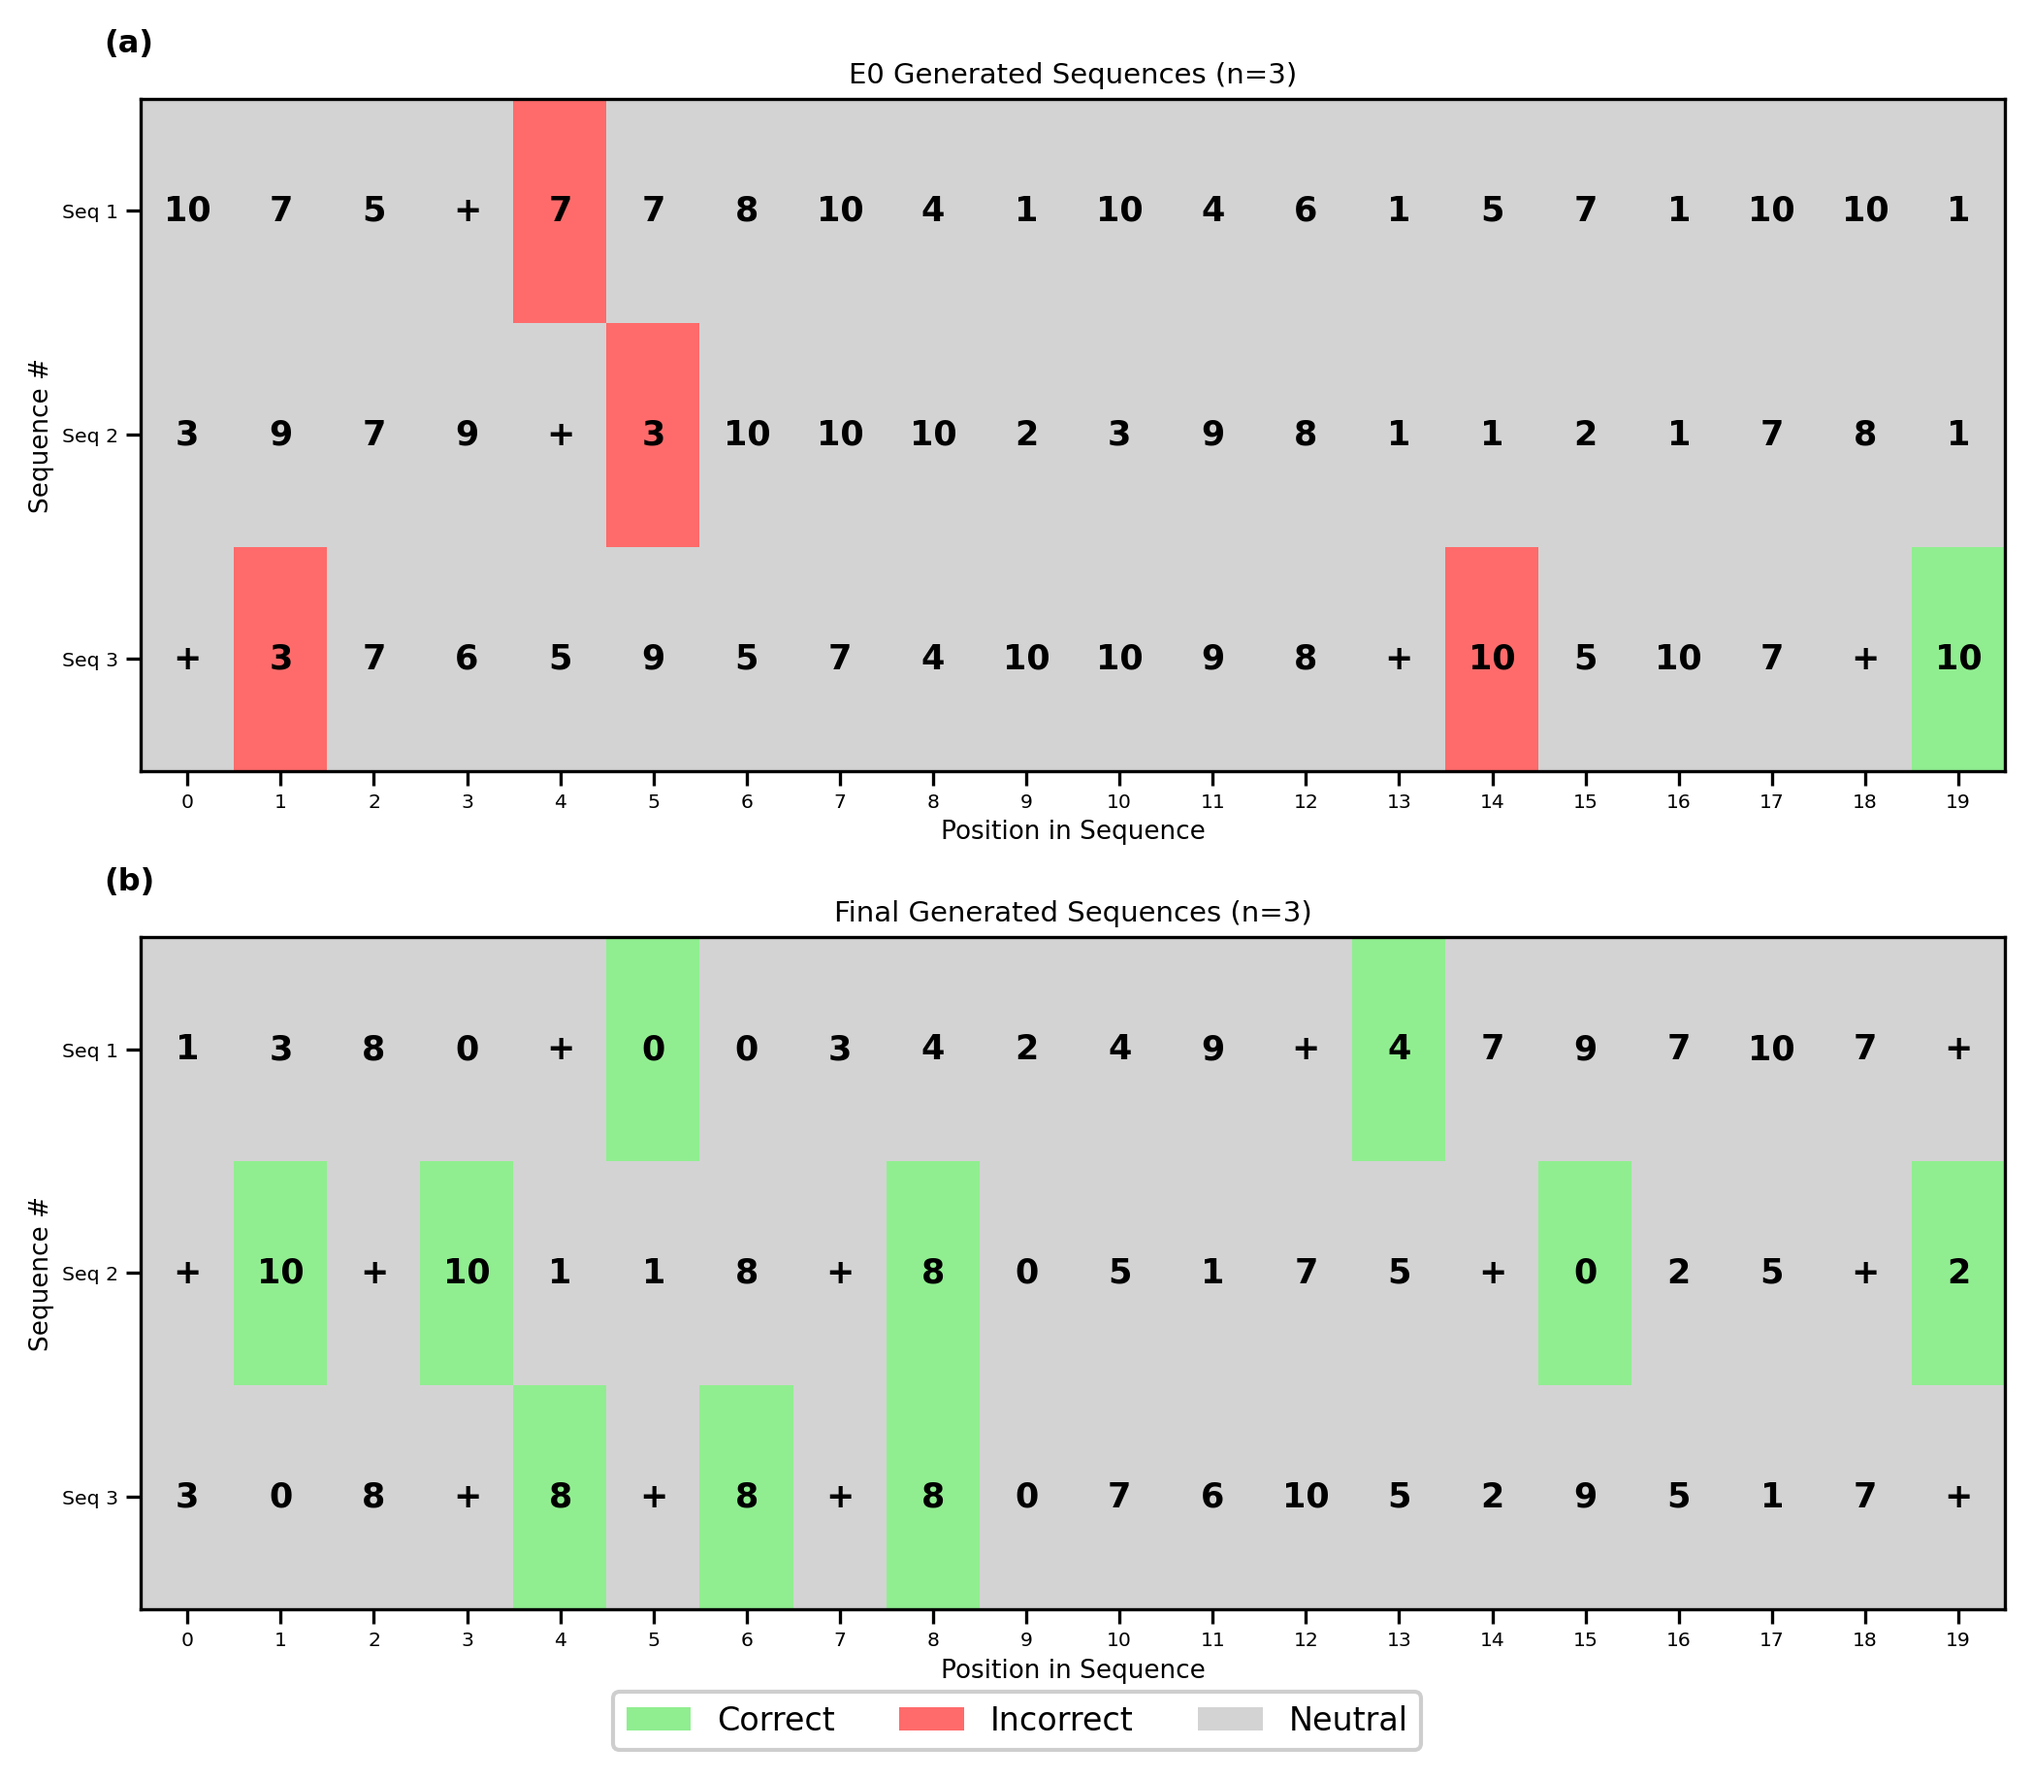
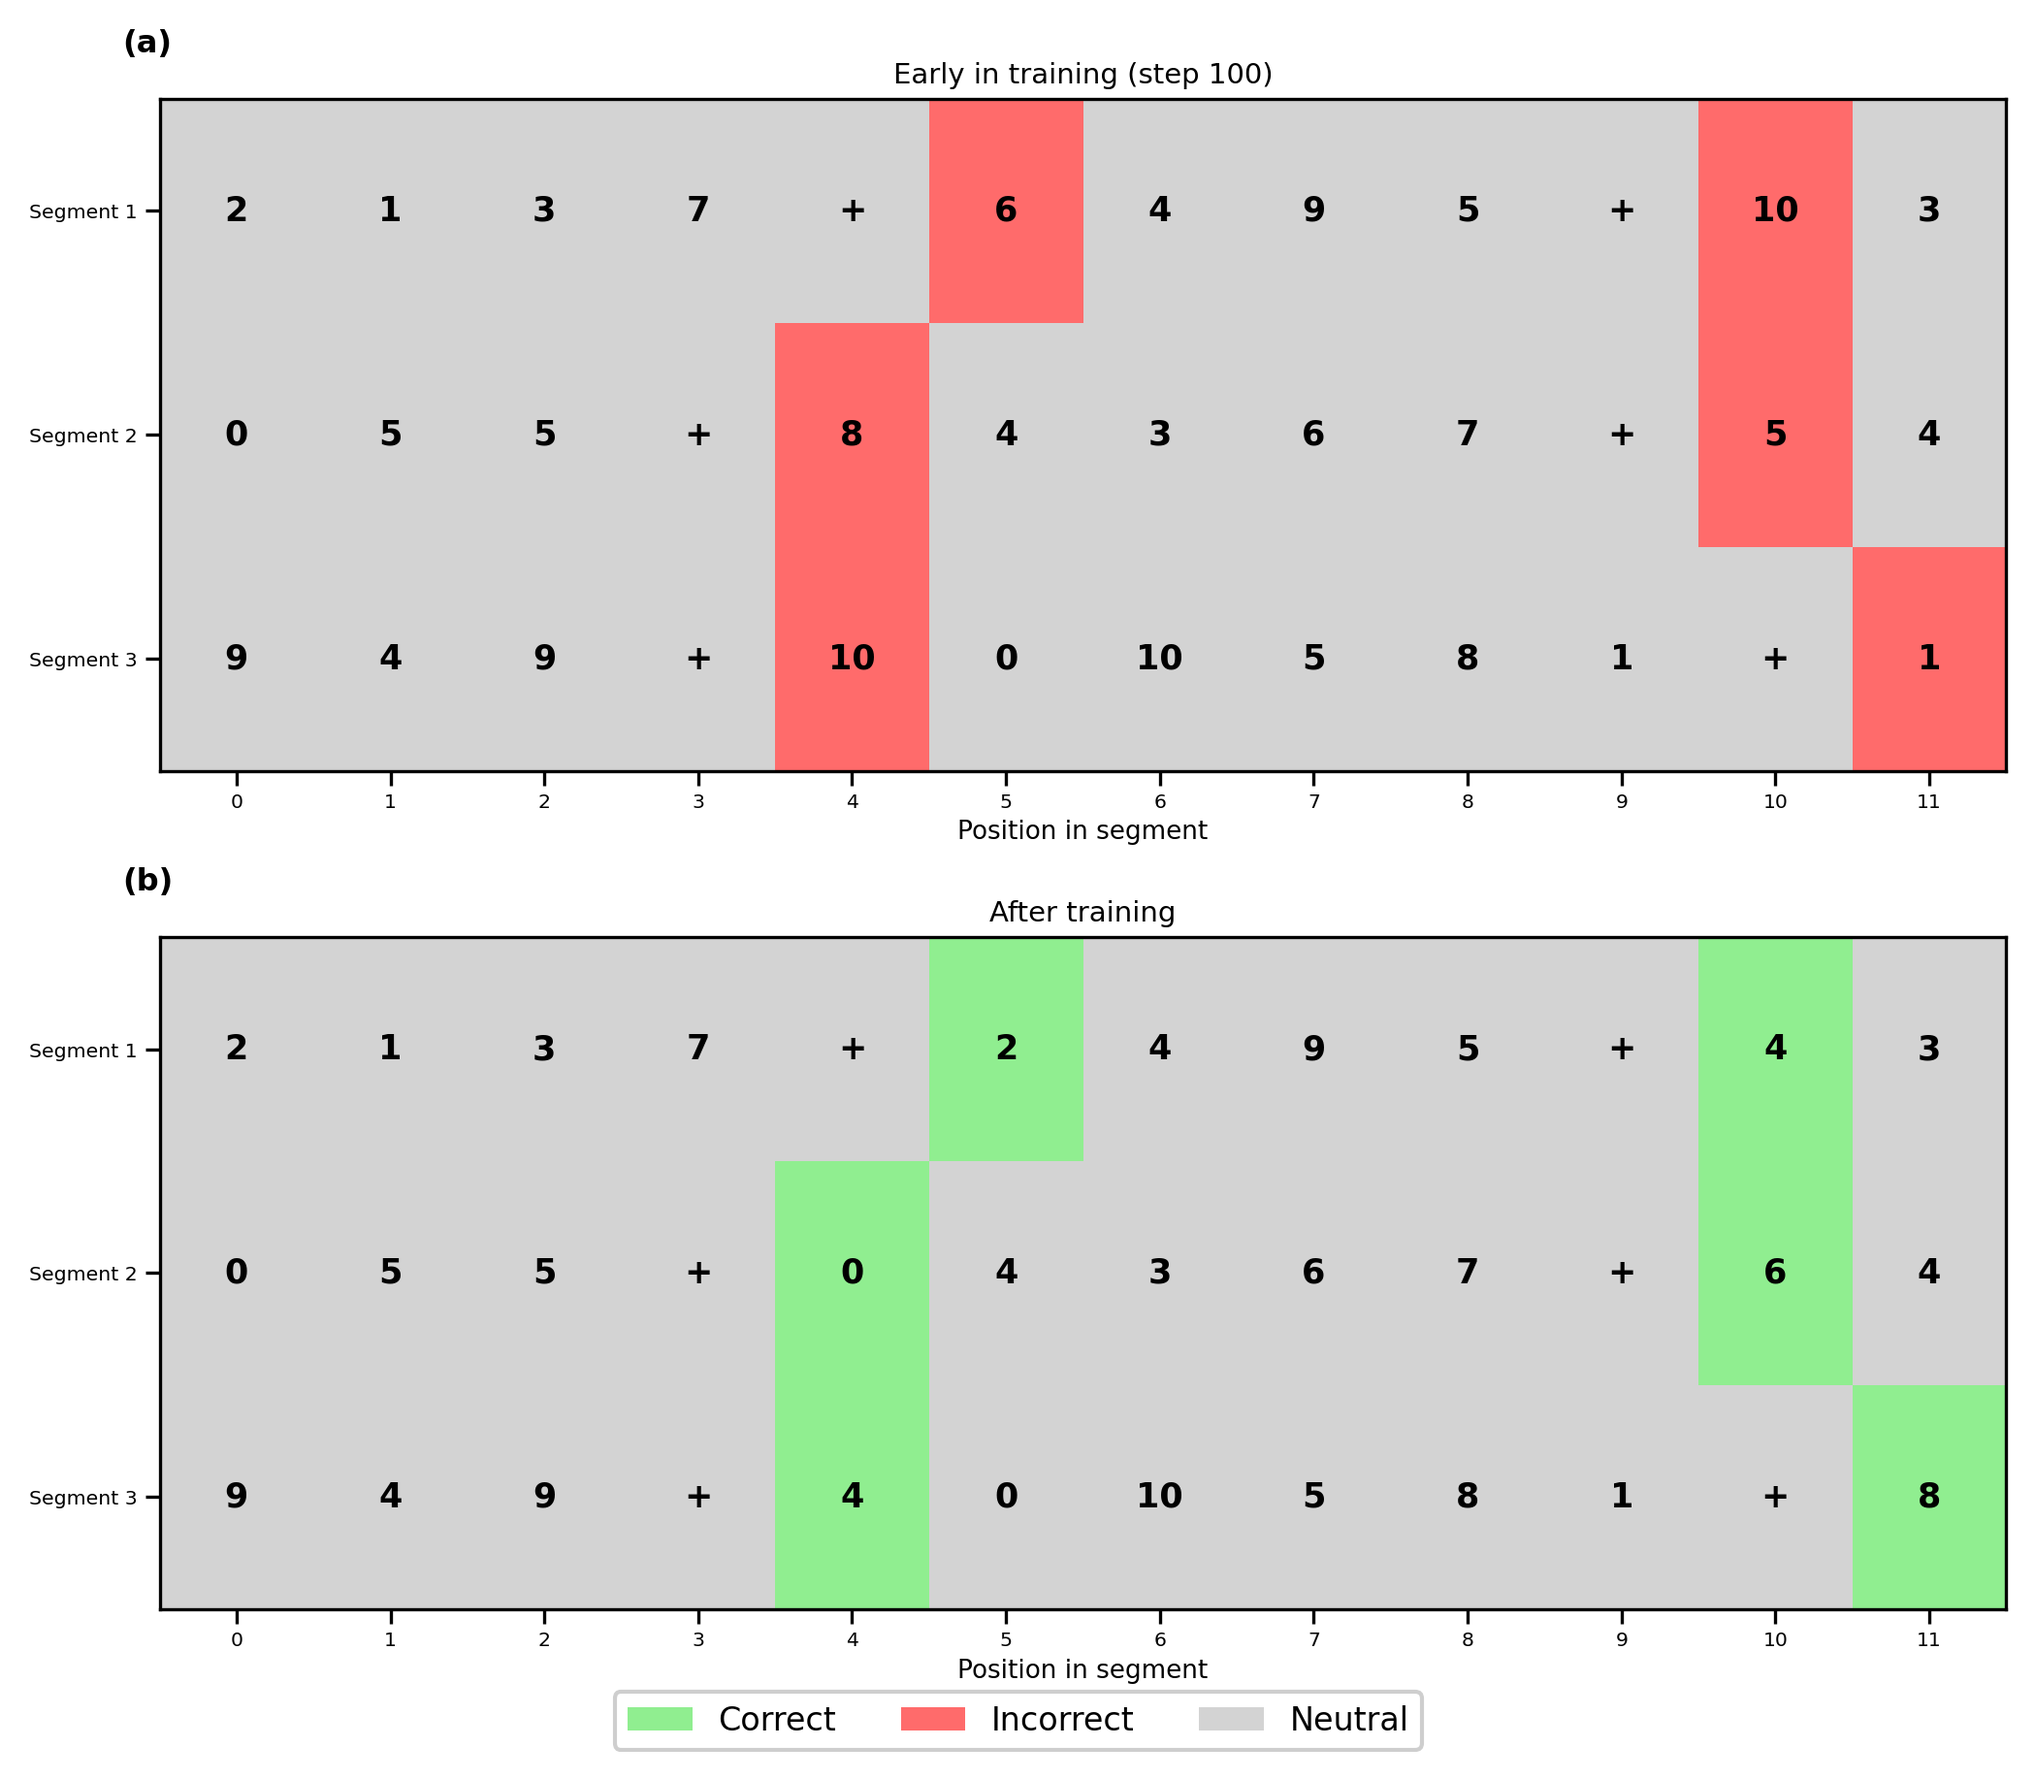
fine

diff --git a/plotting/04_generated_sequences_heatmap.py b/plotting/04_generated_sequences_heatmap.py
@@ -27,13 +27,102 @@ from plotting._utils import (
 )
 
 
-def plot_generated_sequences_heatmap(generated_sequences, generator, save_path=None, num_sequences=5, max_length=20, ax=None, title=None, show_legend=True):
+def _last_even_source(window, plus_idx, context):
+    """Index of the most recent even integer before window[plus_idx], within `context` tokens, or None."""
+    for j in range(plus_idx - 1, max(-1, plus_idx - context), -1):
+        tok = window[j]
+        if tok != "+" and isinstance(tok, int) and tok % 2 == 0:
+            return j
+    return None
+
+
+def select_plus_last_even_segments(sequences, num_segments=3, length=12, context=8,
+                                   min_plus=1, min_gap=1, fresh_sources=False,
+                                   return_locations=False):
+    """Cut readable demo segments out of generated plus-last-even sequences.
+
+    A segment of `length` tokens qualifies if every '+' in it (a) is followed by a
+    token inside the segment, (b) is not followed by another '+', and (c) has an
+    even number earlier in the segment and within the model's `context` window, so
+    the rule's target is visible in the figure. Segments must contain at least
+    `min_plus` '+' tokens, and the last even must sit at least `min_gap` positions
+    before its '+' (min_gap=2 excludes trivial '8 + 8' copies).
+
+    Selection uses only the input tokens, never whether the model's output was
+    correct. Segments prefer more distinct targets, more '+' tokens, and longer
+    look-back distances; at most one segment is taken per source sequence.
+    If fresh_sources, a '+' target may not itself be the output of an earlier '+'
+    (so replacing outputs with model predictions cannot change later targets).
+    Returns a list of segments (lists of tokens), possibly shorter than num_segments;
+    with return_locations, a list of (sequence_index, start, segment) instead.
+    """
+    best_per_seq = []
+    for seq_i, seq in enumerate(sequences):
+        best = None
+        for start in range(0, len(seq) - length + 1):
+            win = list(seq[start:start + length])
+            plus_idx = [i for i, t in enumerate(win) if t == "+"]
+            if len(plus_idx) < min_plus:
+                continue
+            ok = True
+            gaps, targets = [], set()
+            for i in plus_idx:
+                if i + 1 >= length or win[i + 1] == "+":
+                    ok = False
+                    break
+                src = _last_even_source(win, i, context)
+                if src is None or i - src < min_gap:
+                    ok = False
+                    break
+                if fresh_sources and src > 0 and win[src - 1] == "+":
+                    ok = False
+                    break
+                gaps.append(i - src)
+                targets.add(win[src])
+            if not ok:
+                continue
+            score = (len(targets), min(len(plus_idx), 3), min(gaps), -start)
+            if best is None or score > best[0]:
+                best = (score, (seq_i, start, win))
+        if best is not None:
+            best_per_seq.append(best)
+    best_per_seq.sort(key=lambda b: b[0], reverse=True)
+    chosen = [loc for _, loc in best_per_seq[:num_segments]]
+    return chosen if return_locations else [win for _, _, win in chosen]
+
+
+@torch.no_grad()
+def plus_predictions_on_segments(model, encoded_sequences, locations, decode, block_size, seed=0):
+    """Teacher-forced: replace the token after each '+' in each segment with a token
+    sampled from the model's output distribution (as in generation), using the true
+    preceding tokens (last `block_size`) as context. Uses a private RNG seeded by `seed`."""
+    model.eval()
+    gen = torch.Generator().manual_seed(seed)
+    out = []
+    for seq_i, start, win in locations:
+        full = encoded_sequences[seq_i]
+        shown = list(win)
+        for i, tok in enumerate(win):
+            if tok != "+" or i + 1 >= len(win):
+                continue
+            g = start + i  # index of '+' in the full sequence
+            ctx = torch.tensor([full[max(0, g - block_size + 1):g + 1]], dtype=torch.long)
+            logits, _ = model(ctx)
+            probs = F.softmax(logits[0, -1], dim=-1)
+            pred = int(torch.multinomial(probs, 1, generator=gen).item())
+            shown[i + 1] = decode([pred])[0]
+        out.append(shown)
+    return out
+
+
+def plot_generated_sequences_heatmap(generated_sequences, generator, save_path=None, num_sequences=5, max_length=20, ax=None, title=None, show_legend=True, xlabel="Position in Sequence", row_label="Seq"):
     """
     Plot generated sequences as an annotated heatmap showing correctness.
     Red = incorrect, White/Green = correct.
     """
     sequences_to_show = generated_sequences[:num_sequences]
-    
+    num_sequences = len(sequences_to_show)
+
     # Truncate to max_length and pad to same length
     max_len = min(max_length, max(len(seq) for seq in sequences_to_show))
     
@@ -43,7 +132,7 @@ def plot_generated_sequences_heatmap(generated_sequences, generator, save_path=N
     constrained_matrix = []
     
     for seq in sequences_to_show:
-        seq_truncated = seq[:max_len]
+        seq_truncated = list(seq[:max_len])
         correctness, _ = generator.verify_sequence(seq_truncated)
         valence = generator.valence_mask(seq_truncated)
         
@@ -99,15 +188,15 @@ def plot_generated_sequences_heatmap(generated_sequences, generator, save_path=N
                 ax.text(j, i, str(val), ha='center', va='center', fontsize=_txt_fs, color=text_color, fontweight='bold')
     
     # Set labels — larger fonts
-    ax.set_xlabel("Position in Sequence", fontsize=_lbl_fs)
-    ax.set_ylabel("Sequence #", fontsize=_lbl_fs)
+    ax.set_xlabel(xlabel, fontsize=_lbl_fs)
+    ax.set_ylabel("Sequence #" if row_label == "Seq" else "", fontsize=_lbl_fs)
     ax.set_title(title or "Generated Sequences with Rule Correctness\n(Green = Correct, Red = Incorrect)", fontsize=_tit_fs)
     ax.tick_params(axis='both', labelsize=_tk_fs)
     
     # Set ticks
     ax.set_xticks(range(0, max_len, max(1, max_len // 15)))
     ax.set_yticks(range(num_sequences))
-    ax.set_yticklabels([f"Seq {i+1}" for i in range(num_sequences)])
+    ax.set_yticklabels([f"{row_label} {i+1}" for i in range(num_sequences)])
     
     if created_fig:
         plt.tight_layout()
@@ -137,8 +226,11 @@ def plot_generated_sequences_heatmap(generated_sequences, generator, save_path=N
     return accuracy, total_correct, total_incorrect
 
 
-def plot_generated_sequences_heatmap_before_after(generated_sequences_e0, generated_sequences_final, generator, save_path=None, num_sequences=3, max_length=20):
+def plot_generated_sequences_heatmap_before_after(generated_sequences_e0, generated_sequences_final, generator, save_path=None, num_sequences=3, max_length=20, titles=None, xlabel="Position in Sequence", row_label="Seq"):
     """Plot before/after generated sequences heatmaps in one image."""
+    if titles is None:
+        titles = (f"E0 Generated Sequences (n={num_sequences})",
+                  f"Final Generated Sequences (n={num_sequences})")
     if not generated_sequences_e0:
         return plot_generated_sequences_heatmap(
             generated_sequences_final, generator,
@@ -157,12 +249,12 @@ def plot_generated_sequences_heatmap_before_after(generated_sequences_e0, genera
     acc0, c0, i0 = plot_generated_sequences_heatmap(
         generated_sequences_e0, generator,
         save_path=None, num_sequences=num_sequences, max_length=max_length,
-        ax=axes[0], title=f"E0 Generated Sequences (n={num_sequences})", show_legend=False
+        ax=axes[0], title=titles[0], show_legend=False, xlabel=xlabel, row_label=row_label
     )
     accf, cf, inf = plot_generated_sequences_heatmap(
         generated_sequences_final, generator,
         save_path=None, num_sequences=num_sequences, max_length=max_length,
-        ax=axes[1], title=f"Final Generated Sequences (n={num_sequences})", show_legend=False
+        ax=axes[1], title=titles[1], show_legend=False, xlabel=xlabel, row_label=row_label
     )
     
     _label_panels([axes[0], axes[1]])

diff --git a/visualize.py b/visualize.py
@@ -19,6 +19,8 @@ from plotting import (
     plot_learning_curve,
     plot_generated_sequences_heatmap_before_after,
     plot_generated_sequences_heatmap,
+    select_plus_last_even_segments,
+    plus_predictions_on_segments,
     plot_architecture_diagram,
     plot_weights_qkv_two_sequences,
     plot_q_dot_product_gradients,
@@ -45,6 +47,10 @@ from plotting import (
     plot_probability_heatmap_with_values,
     plot_per_token_frozen_output,
 )
+
+
+# Earliest saved checkpoint; rule error is still at chance here (used as "before" in Fig. 4).
+early_step_for_fig4 = 100
 
 
 def _has_odd_number(decoded_tokens: list) -> bool:
@@ -308,7 +314,42 @@ def visualize_from_checkpoint(
         )
 
     if _plot("generated_sequences_heatmap.png"):
-        if generated_sequences_e0:
+        early_ckpt = None
+        if config["data"].get("generator_type") == "PlusLastEvenRule":
+            early_ckpt = load_checkpoint(config_name_actual, step=early_step_for_fig4)
+        if early_ckpt is not None:
+            # Same held-out segments in both panels; the token after each '+' is replaced by
+            # the model's top-1 prediction (teacher-forced), early in training vs. trained.
+            # Segments are chosen from the data alone, never from model correctness.
+            seg_len = 12
+            val_seqs = checkpoint_data.get("val_sequences") or train_sequences
+            locs = select_plus_last_even_segments(
+                [decode(s) for s in val_seqs], num_segments=3, length=seg_len,
+                context=block_size, min_plus=2, min_gap=2, fresh_sources=True,
+                return_locations=True,
+            )
+            segs_before = plus_predictions_on_segments(
+                early_ckpt["model"], val_seqs, locs, decode, block_size)
+            segs_after = plus_predictions_on_segments(
+                model, val_seqs, locs, decode, block_size)
+            (acc0, c0, i0), (accf, cf, inf) = plot_generated_sequences_heatmap_before_after(
+                segs_before,
+                segs_after,
+                generator,
+                save_path=_plot_path("generated_sequences_heatmap.png"),
+                num_sequences=3,
+                max_length=seg_len,
+                titles=(f"Early in training (step {early_ckpt['step']})",
+                        "After training"),
+                xlabel="Position in segment",
+                row_label="Segment",
+            )
+            print("Fig 4 data segments:", [" ".join(map(str, w)) for _, _, w in locs])
+            print("Fig 4 (before):", [" ".join(map(str, s)) for s in segs_before])
+            print("Fig 4 (after):", [" ".join(map(str, s)) for s in segs_after])
+            print(f"Generated sequences heatmap (E0): {c0} correct, {i0} incorrect positions ({acc0:.1%} accuracy)")
+            print(f"Generated sequences heatmap (Final): {cf} correct, {inf} incorrect positions ({accf:.1%} accuracy)")
+        elif generated_sequences_e0:
             (acc0, c0, i0), (accf, cf, inf) = plot_generated_sequences_heatmap_before_after(
                 generated_sequences_e0,
                 generated_sequences,

diff --git a/plotting/__init__.py b/plotting/__init__.py
@@ -28,6 +28,8 @@ estimate_rule_error = _mod_03_learning_curve.estimate_rule_error
 _mod_04_generated_sequences_heatmap = __import__("plotting.04_generated_sequences_heatmap", fromlist=['plot_generated_sequences_heatmap', 'plot_generated_sequences_heatmap_before_after'])
 plot_generated_sequences_heatmap = _mod_04_generated_sequences_heatmap.plot_generated_sequences_heatmap
 plot_generated_sequences_heatmap_before_after = _mod_04_generated_sequences_heatmap.plot_generated_sequences_heatmap_before_after
+select_plus_last_even_segments = _mod_04_generated_sequences_heatmap.select_plus_last_even_segments
+plus_predictions_on_segments = _mod_04_generated_sequences_heatmap.plus_predictions_on_segments
 
 _mod_05_token_embeddings = __import__("plotting.05_token_embeddings", fromlist=['plot_token_embeddings_heatmap', 'plot_bigram_logits_heatmap', 'plot_token_embeddings_pca_2d_with_hclust', 'plot_bigram_probability_heatmap_hclust', 'plot_bigram_probability_heatmap', 'plot_embeddings_pca', 'plot_embeddings_scatterplots_only'])
 plot_token_embeddings_heatmap = _mod_05_token_embeddings.plot_token_embeddings_heatmap
